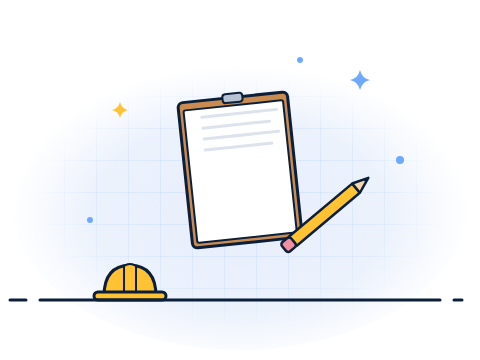
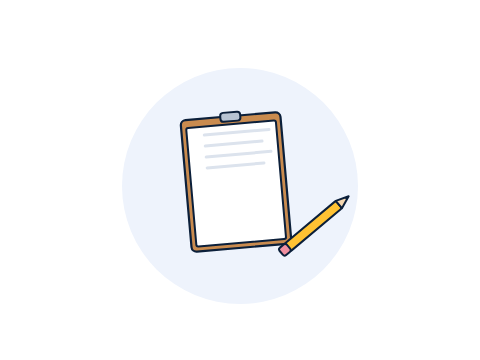
Lighter illustrations: one minimal hero on /welcome, minimal empty states and phone intro
Drop the five module scenes so the product screenshots carry the feature tabs, redraw the
hero, empty states and phone intro in a minimal style (thinner lines, one accent, no
backdrops or confetti), make the hero plain white and slim the datum line.

Claude-Session: https://claude.ai/code/session_01AxmTPKhJAMLVj1jDpdxK6Y

diff --git a/apps/web/src/app/(public)/welcome/content.tsx b/apps/web/src/app/(public)/welcome/content.tsx
@@ -35,8 +35,6 @@ export type Module = {
   tab: string;
   title: string;
   lead: string;
-  /** Illustration above the feature list, from public/illustrations. */
-  art: { src: string; alt: string };
   shot: { src: string; alt: string };
   features: Feature[];
 };
@@ -47,7 +45,6 @@ export const MODULES: Module[] = [
     tab: 'Site',
     title: 'Everything a site sends to the office',
     lead: 'The site engineer enters the day on the phone. The project manager approves it, and only then does it count.',
-    art: { src: '/illustrations/feature-site-daily-report.svg', alt: 'A site engineer photographs the work on her phone for the daily report while a worker brings bricks' },
     shot: { src: '/landing/web-approvals.webp', alt: 'The approvals queue with progress, machinery and measurement entries waiting for review' },
     features: [
       { icon: <FileTextOutlined />, title: 'DPR and progress', text: 'Quantities against BOQ activities, manpower from attendance, photos and the day\'s issues.' },
@@ -63,7 +60,6 @@ export const MODULES: Module[] = [
     tab: 'Get paid',
     title: 'RA bills straight from the measurement book',
     lead: 'What site measured and the project manager approved becomes the next running bill, with the contract\'s deductions already applied.',
-    art: { src: '/illustrations/feature-ra-billing.svg', alt: 'A quantity surveyor with the measurement book and a client certifying the RA bill on her phone' },
     shot: { src: '/landing/web-ra-bill.webp', alt: 'An RA bill with the abstract of cost, GST and the retention, advance recovery, TDS and labour cess deductions' },
     features: [
       { icon: <BankOutlined />, title: 'Clients and contracts', text: 'Client GSTIN and billing address; per project the agreement, value, dates, retention, security deposit, advance and TDS rates.' },
@@ -77,7 +73,6 @@ export const MODULES: Module[] = [
     tab: 'Buy and pay',
     title: 'From material request to vendor payment',
     lead: 'Quotes, purchase orders, receipts at site and the vendor\'s bill are checked against each other before anyone pays.',
-    art: { src: '/illustrations/feature-procurement.svg', alt: 'A truck delivers cement and the storekeeper checks it against the purchase order and the bill' },
     shot: { src: '/landing/web-po.webp', alt: 'A purchase order with items, GST, the share received at site and its GRN' },
     features: [
       { icon: <ShopOutlined />, title: 'Vendor master', text: 'Suppliers, hire agencies and subcontractors with GSTIN, PAN, bank details and MSME number.' },
@@ -92,7 +87,6 @@ export const MODULES: Module[] = [
     tab: 'Quality',
     title: 'Inspections, tests and NCRs on record',
     lead: 'Site asks for an inspection from the phone, QA/QC passes or fails it against a checklist, and failed work is tracked to closure.',
-    art: { src: '/illustrations/feature-quality.svg', alt: 'Two QA engineers check a checklist and examine concrete test cubes' },
     shot: { src: '/landing/web-quality.webp', alt: 'The quality register with inspections requested, passed and sent for re-inspection' },
     features: [
       { icon: <SafetyOutlined />, title: 'Inspections from site', text: 'An activity at a location, with photos; each checklist point marked OK, not OK or not applicable.' },
@@ -106,7 +100,6 @@ export const MODULES: Module[] = [
     tab: 'Accounts',
     title: 'Cost, cash and the books, project by project',
     lead: 'Management sees what each project has done, what it cost, what was billed and what came in, without waiting for month end.',
-    art: { src: '/illustrations/feature-finance.svg', alt: 'A director reviews project cost on a laptop while the accountant explains the chart' },
     shot: { src: '/landing/web-cost.webp', alt: 'Project cost against executed value, with billed value, cash in and cash out' },
     features: [
       { icon: <FundOutlined />, title: 'Cost against work done', text: 'Expenses, material, machinery, labour and subcontractors against BOQ value executed, with billed value and cash in and out.' },

diff --git a/apps/web/src/app/globals.css b/apps/web/src/app/globals.css
@@ -136,7 +136,7 @@ h4.ant-typography,
 .lp-nav nav a { color: #e6ebf2; font-weight: 500; }
 .lp-nav nav a:hover { color: var(--brand-accent-light); }
 .lp-brand { display: inline-flex; align-items: center; gap: 10px; }
-.lp-hero { background: linear-gradient(180deg, #fff 0%, var(--brand-canvas) 100%); color: var(--brand-ink); display: grid; grid-template-columns: minmax(0, 5fr) minmax(0, 6fr); gap: 40px; align-items: center; padding: 56px max(24px, calc((100vw - 1160px) / 2 + 24px)) 0; overflow: hidden; }
+.lp-hero { background: #fff; color: var(--brand-ink); display: grid; grid-template-columns: minmax(0, 5fr) minmax(0, 6fr); gap: 48px; align-items: center; padding: 72px max(24px, calc((100vw - 1160px) / 2 + 24px)) 0; overflow: hidden; }
 .lp-hero h1 { color: var(--brand-ink); font-size: clamp(38px, 5.4vw, 64px); font-weight: 800; font-stretch: 85%; line-height: 1.02; letter-spacing: -0.01em; margin-bottom: 18px; }
 .lp-kicker, .lp-eyebrow { color: var(--brand-accent-light); text-transform: uppercase; letter-spacing: .14em; font-size: 13px; font-weight: 700; margin-bottom: 14px !important; }
 .lp-eyebrow { color: var(--brand-link); margin-bottom: 8px !important; }
@@ -145,10 +145,10 @@ h4.ant-typography,
 .lp-small { font-size: 13px; color: #5b6779; margin-top: 14px !important; max-width: 520px; }
 .lp-cta { display: flex; gap: 12px; flex-wrap: wrap; margin-top: 28px; }
 .lp-cta-center { justify-content: center; }
-.lp-hero-text { padding-bottom: 56px; }
+.lp-hero-text { padding-bottom: 72px; }
 .lp-hero-art { align-self: end; }
 .lp-hero-art img { width: 100%; height: auto; display: block; }
-.lp-datum { height: 8px; background: var(--brand-accent); }
+.lp-datum { height: 3px; background: var(--brand-accent); }
 .lp-band { background: #fff; border-bottom: 1px solid var(--brand-border); padding: 40px 0; }
 .lp-three { display: grid; grid-template-columns: repeat(3, 1fr); gap: 32px; }
 .lp-three .anticon { font-size: 26px; color: var(--brand-link); margin-bottom: 10px; }
@@ -171,7 +171,6 @@ h4.ant-typography,
 .lp-panel > .lp-frame { position: sticky; top: 88px; }
 .lp-panel h3 { font-size: 26px; font-weight: 800; font-stretch: 90%; line-height: 1.15; margin-bottom: 10px; }
 .lp-panel-lead { margin-bottom: 22px !important; }
-.lp-panel-art { display: block; width: 100%; max-width: 460px; height: auto; margin: -8px 0 18px; }
 .lp-feats { list-style: none; padding: 0; margin: 0; display: flex; flex-direction: column; gap: 16px; }
 .lp-feats li { display: flex; gap: 14px; align-items: flex-start; }
 .lp-feats h4 { font-size: 16px; font-weight: 700; margin-bottom: 2px; }

diff --git a/apps/web/src/app/(public)/welcome/page.tsx b/apps/web/src/app/(public)/welcome/page.tsx
@@ -87,7 +87,7 @@ export default function WelcomePage() {
           <p className="lp-small">Demo accounts are listed on the sign-in page. The site app works without signal.</p>
         </div>
         <div className="lp-hero-art" aria-hidden>
-          <img src="/illustrations/hero-site-to-office.svg" alt="" width={1400} height={900} />
+          <img src="/illustrations/welcome-hero.svg" alt="" width={1020} height={660} />
         </div>
       </section>
       <div className="lp-datum" />
@@ -137,7 +137,6 @@ export default function WelcomePage() {
             <div className="lp-panel-text">
               <h3>{m.title}</h3>
               <p className="lp-panel-lead">{m.lead}</p>
-              <img className="lp-panel-art" src={m.art.src} alt={m.art.alt} width={1200} height={800} loading="lazy" />
               <ul className="lp-feats">
                 {m.features.map((f) => (
                   <li key={f.title}>

diff --git a/apps/web/src/components/common/EmptyArt.tsx b/apps/web/src/components/common/EmptyArt.tsx
@@ -5,7 +5,6 @@ const ART = {
   projects: '/illustrations/empty-no-projects.svg',
   entries: '/illustrations/empty-no-entries.svg',
   approved: '/illustrations/empty-all-approved.svg',
-  offline: '/illustrations/empty-offline.svg',
 } as const;
 
 export type EmptyArtKind = keyof typeof ART;
